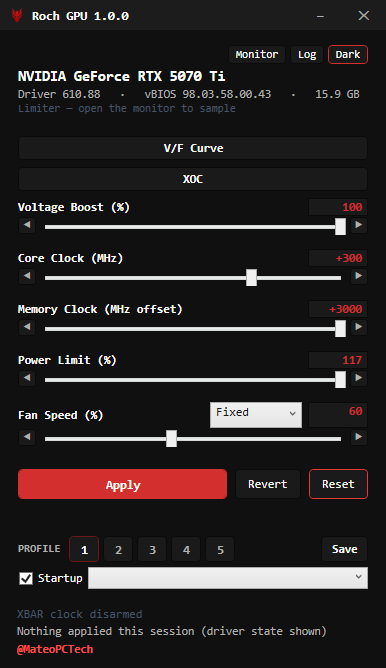
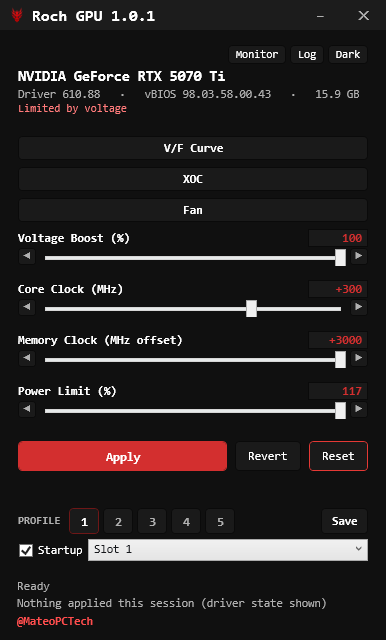
Clean up after the fan work, and bring the README back in line
Dead code, all of it stranded by this session's UI moves:

- ArmCommand and DisarmCommand, left behind when the XOC pair became one toggle.
  Both were still constructed and bound to nothing.
- FixedFanInput, FixedFanText and the "fan" case in the nudge handler, which went
  with the main window's fan row.
- FanCurveEditor.TryUpdateSelected and the Selected property it needed: the
  by-index version is the one the points table calls.

The two fan-write paths are now one. An apply and the fan window's own button had
drifted while they were copies, and not cosmetically: one clamped the duties and
the other did not, and a one-element list meant "cooler 1 only" to the apply path
and "every fan" to the other. On a three-fan card that left two fans wherever
they happened to be.

Writing the test for that turned up why nothing had caught it: MockBackend
ignored fanIndex entirely, so a mock that could not tell the two behaviours apart
had been agreeing with either. It keeps a duty per cooler now and reports
FanCount = 3 to match, which makes the new test discriminate - it fails on the
old code and passes on the new.

README: a Fan control section and screenshot; the fan row in the feature table
says a duty per fan; the unnamed clock domains are listed; the claim that the
monitor is the only thing that polls is no longer true, since the fan window
shows live RPM; and the test count.

258 tests pass, 4 new.

diff --git a/src/GpuTuner.Core/Services/TuningService.cs b/src/GpuTuner.Core/Services/TuningService.cs
@@ -376,44 +376,7 @@ public sealed class TuningService : IDisposable
                 Try("Memory timing", () => Backend.SetMemoryTiming(GpuIndex, p.MemoryTimingLevel));
 
             if (Capabilities.CanSetFanSpeed)
-            {
-                switch (p.FanMode)
-                {
-                    case FanMode.Auto:
-                        _activeCurve = null;
-                        Try("Fan auto", () => Backend.SetFanAuto(GpuIndex));
-                        break;
-                    case FanMode.Fixed:
-                        _activeCurve = null;
-                        if (p.FixedFanPercents.Length == 0)
-                            Try("Fan fixed", () => Backend.SetFanSpeed(GpuIndex, -1, p.FixedFanPercent));
-                        else
-                            // Cooler ids start at 1, not 0: the index here is the position in the
-                            // list, the id is what the driver answers to.
-                            for (int i = 0; i < p.FixedFanPercents.Length; i++)
-                            {
-                                int id = i + 1, duty = p.FixedFanPercents[i];
-                                Try($"Fan {id} fixed", () => Backend.SetFanSpeed(GpuIndex, id, duty));
-                            }
-                        break;
-                    case FanMode.Curve:
-                        if (Capabilities.FanCurveIsHardware)
-                        {
-                            // The driver runs it, so it survives this app closing — and no polling
-                            // loop means no fan oscillation if the app is busy.
-                            _activeCurve = null;
-                            Try("Fan curve", () => Backend.SetFanCurve(GpuIndex, p.FanCurve));
-                        }
-                        else
-                        {
-                            _activeCurve = p.FanCurve.Clone();
-                            _activeCurve.ResetState();
-                            _lastCurveFanSent = double.NaN;
-                            // First step happens on next poll using the live temperature.
-                        }
-                        break;
-                }
-            }
+                WriteFans(p.FanMode, p.FixedFanPercent, p.FixedFanPercents, p.FanCurve, Try);
 
             if (ManualCurveActive && (Capabilities.CanSetVoltageCurve || Capabilities.CanSetCoreOffset))
             {
@@ -845,6 +808,57 @@ public sealed class TuningService : IDisposable
         _pollCts = null; _pollTask = null;
     }
 
+    /// <summary>
+    /// The one place fans are written. Both an apply and the fan window's own button come through
+    /// here, which is the point: while they were two copies they had drifted - one clamped the
+    /// duties and the other did not, and a one-element list meant "just cooler 1" to one of them and
+    /// "all of them" to the other, so a three-fan card would have been left with two fans untouched.
+    /// </summary>
+    private void WriteFans(FanMode mode, int percent, int[] perFan, FanCurve curve, Action<string, Action> Try)
+    {
+        int lo = Capabilities.FanMinPercent, hi = Capabilities.FanMaxPercent <= 0 ? 100 : Capabilities.FanMaxPercent;
+        switch (mode)
+        {
+            case FanMode.Auto:
+                _activeCurve = null;
+                Try("Fan auto", () => Backend.SetFanAuto(GpuIndex));
+                break;
+
+            case FanMode.Fixed:
+                _activeCurve = null;
+                // Fewer than two duties is one duty for every fan: -1 is "all coolers", and a single
+                // entry addressed to cooler 1 would leave the rest of them wherever they were.
+                if (perFan.Length < 2)
+                    Try("Fan fixed", () => Backend.SetFanSpeed(GpuIndex, -1, Math.Clamp(percent, lo, hi)));
+                else
+                    // Cooler ids start at 1: the list position is the fan, the id is what the driver
+                    // answers to.
+                    for (int i = 0; i < perFan.Length; i++)
+                    {
+                        int id = i + 1, duty = Math.Clamp(perFan[i], lo, hi);
+                        Try($"Fan {id} fixed", () => Backend.SetFanSpeed(GpuIndex, id, duty));
+                    }
+                break;
+
+            case FanMode.Curve:
+                if (Capabilities.FanCurveIsHardware)
+                {
+                    // The driver runs it, so it survives this app closing - and no polling loop
+                    // means no fan oscillation if the app is busy.
+                    _activeCurve = null;
+                    Try("Fan curve", () => Backend.SetFanCurve(GpuIndex, curve));
+                }
+                else
+                {
+                    _activeCurve = curve.Clone();
+                    _activeCurve.ResetState();
+                    _lastCurveFanSent = double.NaN;
+                    // First step happens on the next poll, using the live temperature.
+                }
+                break;
+        }
+    }
+
     private void RunFanCurve(GpuTelemetry t)
     {
         FanCurve? curve;
@@ -896,42 +910,7 @@ public sealed class TuningService : IDisposable
                 catch (Exception e) { errors.Add($"{what}: {e.Message}"); Log?.Invoke($"{what}: FAILED - {e.Message}"); }
             }
 
-            int lo = Capabilities.FanMinPercent, hi = Capabilities.FanMaxPercent <= 0 ? 100 : Capabilities.FanMaxPercent;
-            switch (mode)
-            {
-                case FanMode.Auto:
-                    _activeCurve = null;
-                    Try("Fan auto", () => Backend.SetFanAuto(GpuIndex));
-                    break;
-
-                case FanMode.Fixed:
-                    _activeCurve = null;
-                    if (perFan.Length < 2)
-                        Try("Fan fixed", () => Backend.SetFanSpeed(GpuIndex, -1, Math.Clamp(percent, lo, hi)));
-                    else
-                        // Cooler ids start at 1; the list position is the fan, the id is what the
-                        // driver answers to.
-                        for (int i = 0; i < perFan.Length; i++)
-                        {
-                            int id = i + 1, duty = Math.Clamp(perFan[i], lo, hi);
-                            Try($"Fan {id} fixed", () => Backend.SetFanSpeed(GpuIndex, id, duty));
-                        }
-                    break;
-
-                case FanMode.Curve:
-                    if (Capabilities.FanCurveIsHardware)
-                    {
-                        _activeCurve = null;
-                        Try("Fan curve", () => Backend.SetFanCurve(GpuIndex, curve));
-                    }
-                    else
-                    {
-                        _activeCurve = curve.Clone();
-                        _activeCurve.ResetState();
-                        _lastCurveFanSent = double.NaN;
-                    }
-                    break;
-            }
+            WriteFans(mode, percent, perFan, curve, Try);
 
             // Keep the applied profile describing the card, so the summary line and a later Revert
             // both agree with what the fans are actually doing.

diff --git a/src/GpuTuner.App/ViewModels/MainViewModel.cs b/src/GpuTuner.App/ViewModels/MainViewModel.cs
@@ -58,8 +58,6 @@ public sealed class MainViewModel : ObservableObject
         LoadProfileCommand = new RelayCommand(LoadSelectedProfile, () => SelectedProfile != null);
         DeleteProfileCommand = new RelayCommand(DeleteSelectedProfile, () => SelectedProfile != null);
         RevertCommand = new RelayCommand(Revert);
-        ArmCommand = new RelayCommand(o => SetLever(o, true));
-        DisarmCommand = new RelayCommand(o => SetLever(o, false));
         // One button per lever now, so it has to work out which way it is going.
         ToggleLeverCommand = new RelayCommand(o =>
             SetLever(o, !(o is string n && Enum.TryParse<XocLever>(n, true, out var l) && _xocArmed.Has(l))));
@@ -266,7 +264,6 @@ public sealed class MainViewModel : ObservableObject
             case "xbar": XbarOffset += CoreStepMhz * dir; break;
             case "sys": SysOffset += CoreStepMhz * dir; break;
             case "video": VideoOffset += CoreStepMhz * dir; break;
-            case "fan": FixedFan += FanStepPercent * dir; break;
         }
     }
 
@@ -301,7 +298,6 @@ public sealed class MainViewModel : ObservableObject
     public string VideoOffsetInput { get => Signed(_video); set => ParseInto(value, v => VideoOffset = v, nameof(VideoOffset)); }
     public string XbarOffsetInput { get => Signed(_xbar); set => ParseInto(value, v => XbarOffset = v, nameof(XbarOffset)); }
     public string VoltageRailMaxInput { get => _rail.ToString(); set => ParseInto(value, v => VoltageRailMax = v, nameof(VoltageRailMax)); }
-    public string FixedFanInput { get => _fanFixed.ToString(); set => ParseInto(value, v => FixedFan = v, nameof(FixedFan)); }
 
     /// <summary>Parse a user-typed offset: leading +/- allowed, whitespace trimmed, trailing units ignored.</summary>
     public static bool TryParseSigned(string? s, out int value)
@@ -579,7 +575,6 @@ public sealed class MainViewModel : ObservableObject
     public string XbarOffsetRangeText =>
         $"{Caps.XbarOffsetMinMhz:+#;-#;0} … {Caps.XbarOffsetMaxMhz:+#;-#;0} MHz. Offsets the crossbar, which no public "
         + "NVAPI surface exposes; the GPU's own frequency counter is used to verify the write landed.";
-    public string FixedFanText => $"{FixedFan} %";
     // ------------------------------------------------------------------ live telemetry
     private GpuTelemetry? _t;
     private int _lastCeiling, _lastBoostCeiling;
@@ -826,8 +821,6 @@ public sealed class MainViewModel : ObservableObject
     public RelayCommand LoadProfileCommand { get; }
     public RelayCommand DeleteProfileCommand { get; }
     public RelayCommand RevertCommand { get; }
-    public RelayCommand ArmCommand { get; }
-    public RelayCommand DisarmCommand { get; }
     public RelayCommand ToggleLeverCommand { get; }
 
     // ------------------------------------------------------------------ actions

diff --git a/tests/GpuTuner.Core.Tests/Program.cs b/tests/GpuTuner.Core.Tests/Program.cs
@@ -301,6 +301,38 @@ using (var svc = new TuningService(new MockBackend()))
     Check("the list is cut to the fan count", wild.FixedFanPercents.Length == 3);
 }
 
+// ---- Fan writes go through one routine, so an apply and the fan window cannot disagree. They did:
+// a one-element list meant "cooler 1 only" on one path and "all fans" on the other, which would have
+// left two of three fans untouched.
+using (var svc = new TuningService(new MockBackend()))
+{
+    svc.Initialize();
+
+    svc.Apply(new TuningProfile { FanMode = FanMode.Fixed, FixedFanPercent = 55 });
+    var st = svc.Backend.ReadTuningState(0);
+    Check("a shared duty reaches the fans", st.FanPercent == 55 && st.FanManual);
+
+    // One entry is still "all fans", not "the first fan" - checked per cooler, because that is where
+    // the two paths disagreed and a single reported duty would hide it.
+    var mock = (MockBackend)svc.Backend;
+    svc.SetFans(FanMode.Fixed, 40, new[] { 40, 40, 40 }, new FanCurve());
+    svc.Apply(new TuningProfile { FanMode = FanMode.Fixed, FixedFanPercent = 70, FixedFanPercents = new[] { 70 } });
+    Check("a one-entry list reaches every cooler", mock.FanPercents.All(v => v == 70));
+
+    // And a real per-fan list still addresses them one at a time.
+    svc.SetFans(FanMode.Fixed, 45, new[] { 45, 65, 90 }, new FanCurve());
+    Check("a per-fan list addresses each cooler",
+          mock.FanPercents[0] == 45 && mock.FanPercents[1] == 65 && mock.FanPercents[2] == 90);
+
+    // And out-of-range duties are clamped on the apply path too, not only from the fan window.
+    svc.Apply(new TuningProfile { FanMode = FanMode.Fixed, FixedFanPercent = 250 });
+    int max = svc.Capabilities.FanMaxPercent <= 0 ? 100 : svc.Capabilities.FanMaxPercent;
+    Check("an apply clamps the fan duty", svc.Backend.ReadTuningState(0).FanPercent == max);
+
+    svc.SetFans(FanMode.Auto, 50, Array.Empty<int>(), new FanCurve());
+    Check("auto releases the fans", !svc.Backend.ReadTuningState(0).FanManual);
+}
+
 // ---- Curve span: the V/F curve runs through BOTH struct regions, not just the "GPU" one.
 // Regression: the struct-based reader stopped at the 80-entry GPU array and reported a 4070 Ti's
 // curve as 80 points ending at 945 mV, while the raw reader saw all 103 ending at 1090. Anything

diff --git a/src/GpuTuner.Core/Backends/Mock/MockBackend.cs b/src/GpuTuner.Core/Backends/Mock/MockBackend.cs
@@ -34,7 +34,7 @@ public sealed class MockBackend : IGpuBackend
         PowerLimitMinPercent = 50, PowerLimitMaxPercent = 115, PowerLimitDefaultPercent = 100,
         TempLimitMinC = 65, TempLimitMaxC = 88, TempLimitDefaultC = 83,
         VoltageBoostMinPercent = 0, VoltageBoostMaxPercent = 100,
-        FanMinPercent = 0, FanMaxPercent = 100, FanCount = 2,
+        FanMinPercent = 0, FanMaxPercent = 100, FanCount = 3,
         // The gated levers, with a stock MSVDD ceiling below its NVVDD twin the way a real Blackwell
         // card ships, so the disarm path is tested against two different defaults rather than one.
         CanSetVoltageRail = true, CanSetMsvddRail = true, CanSetXbarOffset = true,
@@ -139,7 +139,21 @@ public sealed class MockBackend : IGpuBackend
         _voltOffset = offsetMv;
         if (offsetMv != 0) _core = extraClockMhz;   // curve carries the core offset while undervolting
     }
-    public void SetFanSpeed(int gpuIndex, int fanIndex, int percent) { _fanManual = true; _fan = percent; }
+    /// <summary>
+    /// One duty per cooler, because the real driver addresses them separately and a mock that
+    /// forgets that agrees with any bug about it. A mock that ignored fanIndex is what let an apply
+    /// path address only cooler 1 and leave the other two alone without a test noticing.
+    /// </summary>
+    public int[] FanPercents { get; } = { 50, 50, 50 };
+
+    public void SetFanSpeed(int gpuIndex, int fanIndex, int percent)
+    {
+        _fanManual = true;
+        _fan = percent;
+        // -1 is every cooler; otherwise the id is 1-based, as NVAPI numbers them.
+        for (int i = 0; i < FanPercents.Length; i++)
+            if (fanIndex < 0 || fanIndex == i + 1) FanPercents[i] = percent;
+    }
     public void SetFanAuto(int gpuIndex) => _fanManual = false;
     public void ResetToDefaults(int gpuIndex)
     {

diff --git a/src/GpuTuner.App/Controls/FanCurveEditor.cs b/src/GpuTuner.App/Controls/FanCurveEditor.cs
@@ -39,17 +39,11 @@ public sealed class FanCurveEditor : FrameworkElement
     /// </summary>
     public int SelectedIndex { get; private set; } = -1;
 
-    public FanPoint? Selected =>
-        SelectedIndex >= 0 && SelectedIndex < _points.Count ? _points[SelectedIndex] : null;
-
     /// <summary>
     /// Move the selected point by typed values, either of which may be left alone. Temperature is
     /// held strictly between its neighbours for the same reason a drag is: two points at one
     /// temperature is not a curve the fan controller can read.
     /// </summary>
-    public bool TryUpdateSelected(double? tempC, double? fanPercent) =>
-        TryUpdatePoint(SelectedIndex, tempC, fanPercent);
-
     /// <summary>Highlight one point without waiting for a click on the plot.</summary>
     public void SelectPoint(int index) => Select(index >= 0 && index < _points.Count ? index : -1);
 

diff --git a/README.md b/README.md
@@ -27,6 +27,8 @@ command and you get the CLI. Nothing to install — no .NET runtime, no DLLs bes
 |---|---|---|
 | <img src="assets/screenshots/main.png" alt="Main window on an NVIDIA card" width="230"> | <img src="assets/screenshots/xoc.png" alt="Extreme OC window" width="250"> | <img src="assets/screenshots/monitor.png" alt="Hardware monitor" width="290"> |
 
+<img src="assets/screenshots/fan.png" alt="Fan control" width="480">
+
 <img src="assets/screenshots/curve.png" alt="V/F curve editor" width="840">
 
 **AMD (RX 9070 XT)** — the same binary against a different driver. The window is built from what
@@ -72,9 +74,10 @@ showing everything greyed out.
 | Clock range | pin the graphics clock to a min/max window | — |
 | SYS clock | offset, MHz | — |
 | Video clock | offset, MHz | — |
+| HUBCLK, DISPCLK, L2CLK, reference | read-only, in the monitor | — |
 | Power limit | % of TDP | % offset |
 | Temperature limit | ✓ | driver-owned, hidden |
-| Fan | fixed %, or a software curve | fixed %, or a hardware curve |
+| Fan | a duty per fan, or a software curve | one duty, or a hardware curve |
 | Zero RPM / memory timing | — | ✓ |
 | V/F curve editor | ✓ | no editable curve on RDNA 4 |
 
@@ -85,8 +88,9 @@ Plus a hardware monitor in its own window — a table of every sensor the card r
 its current, minimum, maximum and running average, grouped and foldable — five profile slots,
 apply-at-logon, tray operation and the CLI.
 
-The monitor is also the only thing that polls the driver. Close it and there is no driver call at
-all, so the main window can sit on a second screen costing nothing while you play.
+Nothing polls the driver unless a window is showing live readings — the monitor, or the fan window
+with its per-fan RPM. Close both and there is no driver call at all, so the main window can sit on a
+second screen costing nothing while you play.
 
 Offsets snap to the driver's own granularity, so the number on the slider is the number that reaches
 the card. The sliders are also narrowed to a range worth dragging — **−150 to +495 MHz** on core and
@@ -104,6 +108,27 @@ the undervolt, and is where the voltage cap lives.
 
 A marker shows where the card actually stops — the table describes voltages well above anything a
 given card selects, so the unreachable stretch is shaded rather than left looking tunable.
+
+### Fan control
+
+Its own window, from the **Fan** button. Three modes:
+
+- **Auto** — the driver's own behaviour.
+- **Fixed** — a duty per fan. A card that reports several coolers gets a slider each, because the
+  driver addresses them separately: on a 5070 Ti, ids 1, 2 and 3 each have their own policy, level
+  and tachometer. *Move together* is on by default and drives them as one.
+- **Curve** — points against temperature, dragged on the plot or typed as a table underneath, with
+  every point listed rather than only the selected one. Double-click the plot to add a point,
+  right-click one to remove it.
+
+A curve is stepped by this app on NVIDIA, so it stops when the app does, and the app asks before
+closing while one is running. On AMD the curve is the driver's own and needs nothing resident.
+
+**Apply writes the card and saves the fan settings into the active profile slot**, leaving the rest
+of that profile alone. Applying and saving are separate elsewhere — for clocks that is right, you
+try a value before you keep it — but the reason to set a curve is for the machine to run it,
+including after a reboot, so a curve that was applied and never saved is a trap rather than a
+choice.
 
 ### Light and dark
 
@@ -334,7 +359,7 @@ setup.ps1                  as above, plus SDK install and launch (driven by SETU
 src/GpuTuner.Core          engine: backend abstraction, NVIDIA + AMD backends, mock, profiles, fan curve
 src/GpuTuner.App           the executable — WPF window, and the entry point that picks a half
 src/GpuTuner.Cli           the command-line half, compiled into the same executable
-tests/GpuTuner.Core.Tests  dependency-free test runner (237 checks, no hardware needed)
+tests/GpuTuner.Core.Tests  dependency-free test runner (258 checks, no hardware needed)
 tools/amd                  read-only PowerShell probes used to map the AMD driver surface
 .github/workflows/ci.yml   build + test on Linux, publish + smoke-test on Windows
 third_party/NvAPIWrapper   vendored NvAPIWrapper (LGPL-3.0) — see THIRD-PARTY-NOTICES.md
